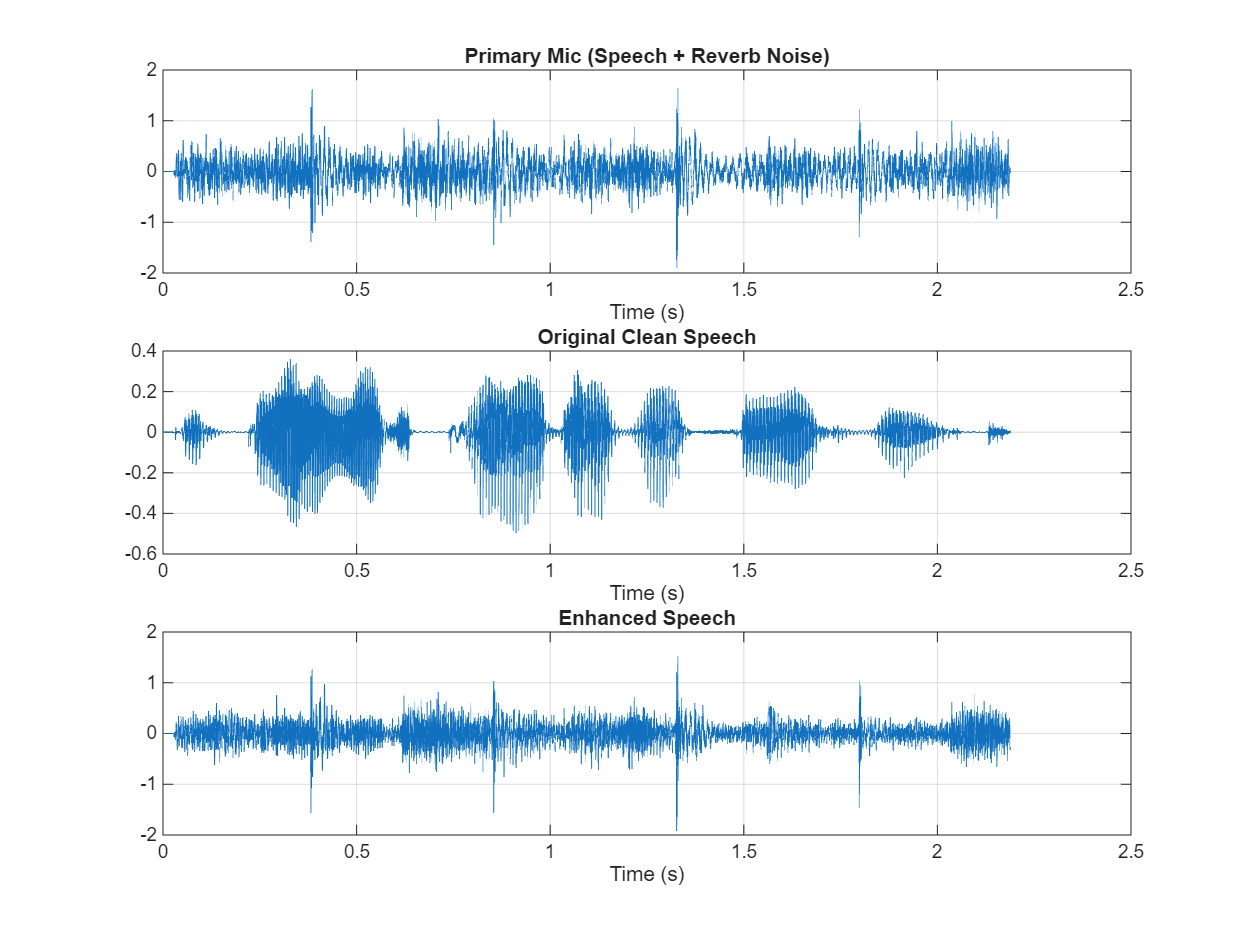
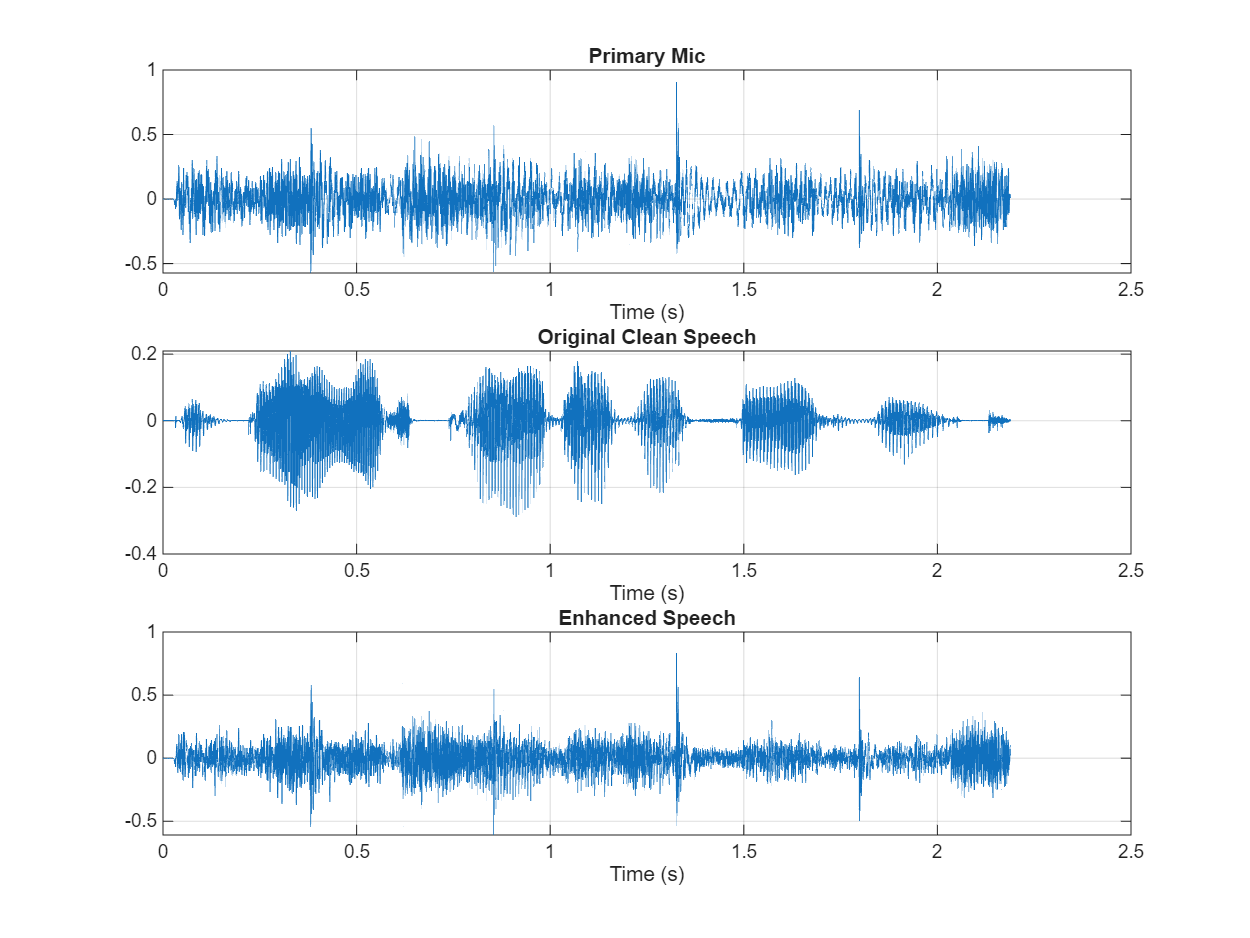
movement scenario|snr test sweep

diff --git a/NLMS/evaluate_nlms_snr.m b/NLMS/evaluate_nlms_snr.m
@@ -1,0 +1,118 @@
+%% Cycle varying NLMS SNR and music configs output STOI for set and average STOI
+
+fs = 16000;
+N = 256;
+mu = 0.05;
+epsilon = 1e-2;
+
+% Define the grid of SNRs to test
+target_snrs_dB = [-15, -10, -5, 0, 5, 10];
+
+% Paths
+script_dir = fileparts(mfilename('fullpath'));
+if isempty(script_dir)
+    script_dir = pwd;
+end
+dataset_dir = fullfile(script_dir, '..', 'dataset');
+speech_dir = fullfile(dataset_dir, 'speech_corpus', 'combined');
+
+noise_files = {
+    fullfile(dataset_dir, 'wav_16k', 'techno', 'techno_1389887.wav');
+    fullfile(dataset_dir, 'wav_16k', 'jazz', 'jazz_01_jazz.00016.wav');
+    fullfile(dataset_dir, 'wav_16k', 'rock', 'rock_01_rock.00011.wav')
+    };
+
+speech_files = dir(fullfile(speech_dir, '*.wav'));
+num_speech_files = length(speech_files);
+
+if num_speech_files == 0
+    error('No speech files found in %s', speech_dir);
+end
+
+% Set up CSV output directory and file
+output_dir = fullfile(script_dir, 'output_audio', 'grid_results');
+if ~exist(output_dir, 'dir')
+    mkdir(output_dir);
+end
+csv_filename = fullfile(output_dir, 'nlms_grid_results.csv');
+
+% Open CSV file and write header
+fid = fopen(csv_filename, 'w');
+if fid == -1
+    error('Cannot open CSV file for writing: %s', csv_filename);
+end
+fprintf(fid, 'Noise_Type,SNR_dB,Avg_STOI_In,Avg_STOI_Out,Improvement\n');
+
+fprintf('\n=== NLMS Grid Evaluation (Multi-Noise / Multi-SNR) ===\n');
+fprintf('Filter Taps (N): %d | Step Size (mu): %.3f\n', N, mu);
+fprintf('----------------------------------------------------------------------\n');
+fprintf('%-15s | %-8s | %-10s | %-10s | %-10s\n', 'Noise Type', 'SNR (dB)', 'Avg STOI In', 'Avg STOI Out', 'Improvement');
+fprintf('----------------------------------------------------------------------\n');
+
+for n_idx = 1:length(noise_files)
+    % Load current noise file
+    [noise_source_full, fs_noise] = audioread(noise_files{n_idx});
+    if fs_noise ~= fs
+        noise_source_full = resample(noise_source_full, fs, fs_noise);
+    end
+
+    % Get a clean name for printing
+    [~, noise_name, ~] = fileparts(noise_files{n_idx});
+
+    for snr_idx = 1:length(target_snrs_dB)
+        current_snr = target_snrs_dB(snr_idx);
+
+        stoi_in_total = 0;
+        stoi_out_total = 0;
+
+        for s_idx = 1:num_speech_files
+            % Load speech
+            s_file_path = fullfile(speech_dir, speech_files(s_idx).name);
+            [clean_speech, fs_speech] = audioread(s_file_path);
+            if fs_speech ~= fs
+                clean_speech = resample(clean_speech, fs, fs_speech);
+            end
+
+            L = length(clean_speech);
+
+            % Ensure noise is long enough, loop if necessary
+            if length(noise_source_full) < L
+                reps = ceil(L / length(noise_source_full));
+                noise_source = repmat(noise_source_full, reps, 1);
+            else
+                noise_source = noise_source_full;
+            end
+            noise_source = noise_source(1:L);
+
+            % 1. Acoustic Path (1 sample delay)
+            ambient_noise_raw = 0.8 * [0; noise_source(1:end-1)];
+
+            % 2. Scale Noise
+            ambient_noise_primary = scale_noise_for_snr(clean_speech, ambient_noise_raw, fs, current_snr);
+
+            % 3. Mix
+            d = clean_speech + ambient_noise_primary;
+            x = noise_source;
+
+            % 4. Apply NLMS
+            [e, ~] = nlms_filter(d, x, N, mu, epsilon);
+
+            % 5. Accumulate STOI Metrics
+            stoi_in_total = stoi_in_total + calculate_stoi(clean_speech, d, fs);
+            stoi_out_total = stoi_out_total + calculate_stoi(clean_speech, e, fs);
+        end
+
+        % Averages for this condition
+        avg_stoi_in = stoi_in_total / num_speech_files;
+        avg_stoi_out = stoi_out_total / num_speech_files;
+        improvement = avg_stoi_out - avg_stoi_in;
+
+        fprintf('%-15s | %-8d | %.4f     | %.4f     | %+.4f\n', ...
+            noise_name(1:min(15, length(noise_name))), current_snr, avg_stoi_in, avg_stoi_out, improvement);
+        fprintf(fid, '%s,%d,%.4f,%.4f,%.4f\n', noise_name, current_snr, avg_stoi_in, avg_stoi_out, improvement);
+    end
+end
+
+fclose(fid);
+fprintf('----------------------------------------------------------------------\n');
+disp('Grid Evaluation Complete.');

diff --git a/NLMS/run_scenarios.m b/NLMS/run_scenarios.m
@@ -120,4 +120,47 @@ saveas(fig_scen4, fullfile(figures_dir, 'scenario4_low_snr.png'));
 audiowrite(fullfile(output_dir, 'scenario4_primary.wav'), d4, fs);
 audiowrite(fullfile(output_dir, 'scenario4_enhanced.wav'), e4, fs);
 
+%% Scenario 5: Continuous Movement (Head Sweeping Left and Right)
+disp('--- Running Scenario 5: Continuous Movement ---');
+
+% 1. Create a time-varying delay to simulate head rotation at 0.5 Hz (one sweep every 2 seconds)
+f_pan = 0.5;
+base_delay = 10;     % Base delay in samples
+max_deviation = 8;   % Sweeps between 2 and 18 samples of delay
+
+ambient_noise_raw = zeros(L, 1);
+
+% Apply the continuously shifting delay sample-by-sample
+for n = 1:L
+    % Calculate the instantaneous integer delay for this exact sample
+    current_delay = round(base_delay + max_deviation * sin(2*pi*f_pan*t(n)));
+
+    % Fetch the delayed noise sample (with boundary protection)
+    if n > current_delay
+        ambient_noise_raw(n) = 0.8 * noise_source_base(n - current_delay);
+    end
+end
+
+% 2. Scale precisely to 0 dB SNR
+ambient_noise_primary5 = scale_noise_for_snr(clean_speech, ambient_noise_raw, fs, 0);
+d5 = clean_speech + ambient_noise_primary5;
+x5 = noise_source_base;
+
+% 3. Apply NLMS
+[e5, ~] = nlms_filter(d5, x5, N, mu, epsilon);
+
+% 4. Normalize for export
+[clean5, d5, e5] = normalize_for_export(0.9, clean_speech, d5, e5);
+
+% 5. Plotting
+fig_scen5 = figure('Name', 'Scenario 5: Continuous Movement', 'Position', [100, 100, 800, 600]);
+subplot(3, 1, 1); plot(t, d5); title('Primary Mic (Continuously Shifting Delay)'); xlabel('Time (s)'); grid on;
+subplot(3, 1, 2); plot(t, clean5); title('Original Clean Speech'); xlabel('Time (s)'); grid on;
+subplot(3, 1, 3); plot(t, e5); title('Enhanced Speech (Note the residual tracking error)'); xlabel('Time (s)'); grid on;
+saveas(fig_scen5, fullfile(figures_dir, 'scenario5_continuous_movement.png'));
+
+% Save Audio
+audiowrite(fullfile(output_dir, 'scenario5_primary.wav'), d5, fs);
+audiowrite(fullfile(output_dir, 'scenario5_enhanced.wav'), e5, fs);
+
 disp('--- All scenarios completed and exported successfully. ---');
